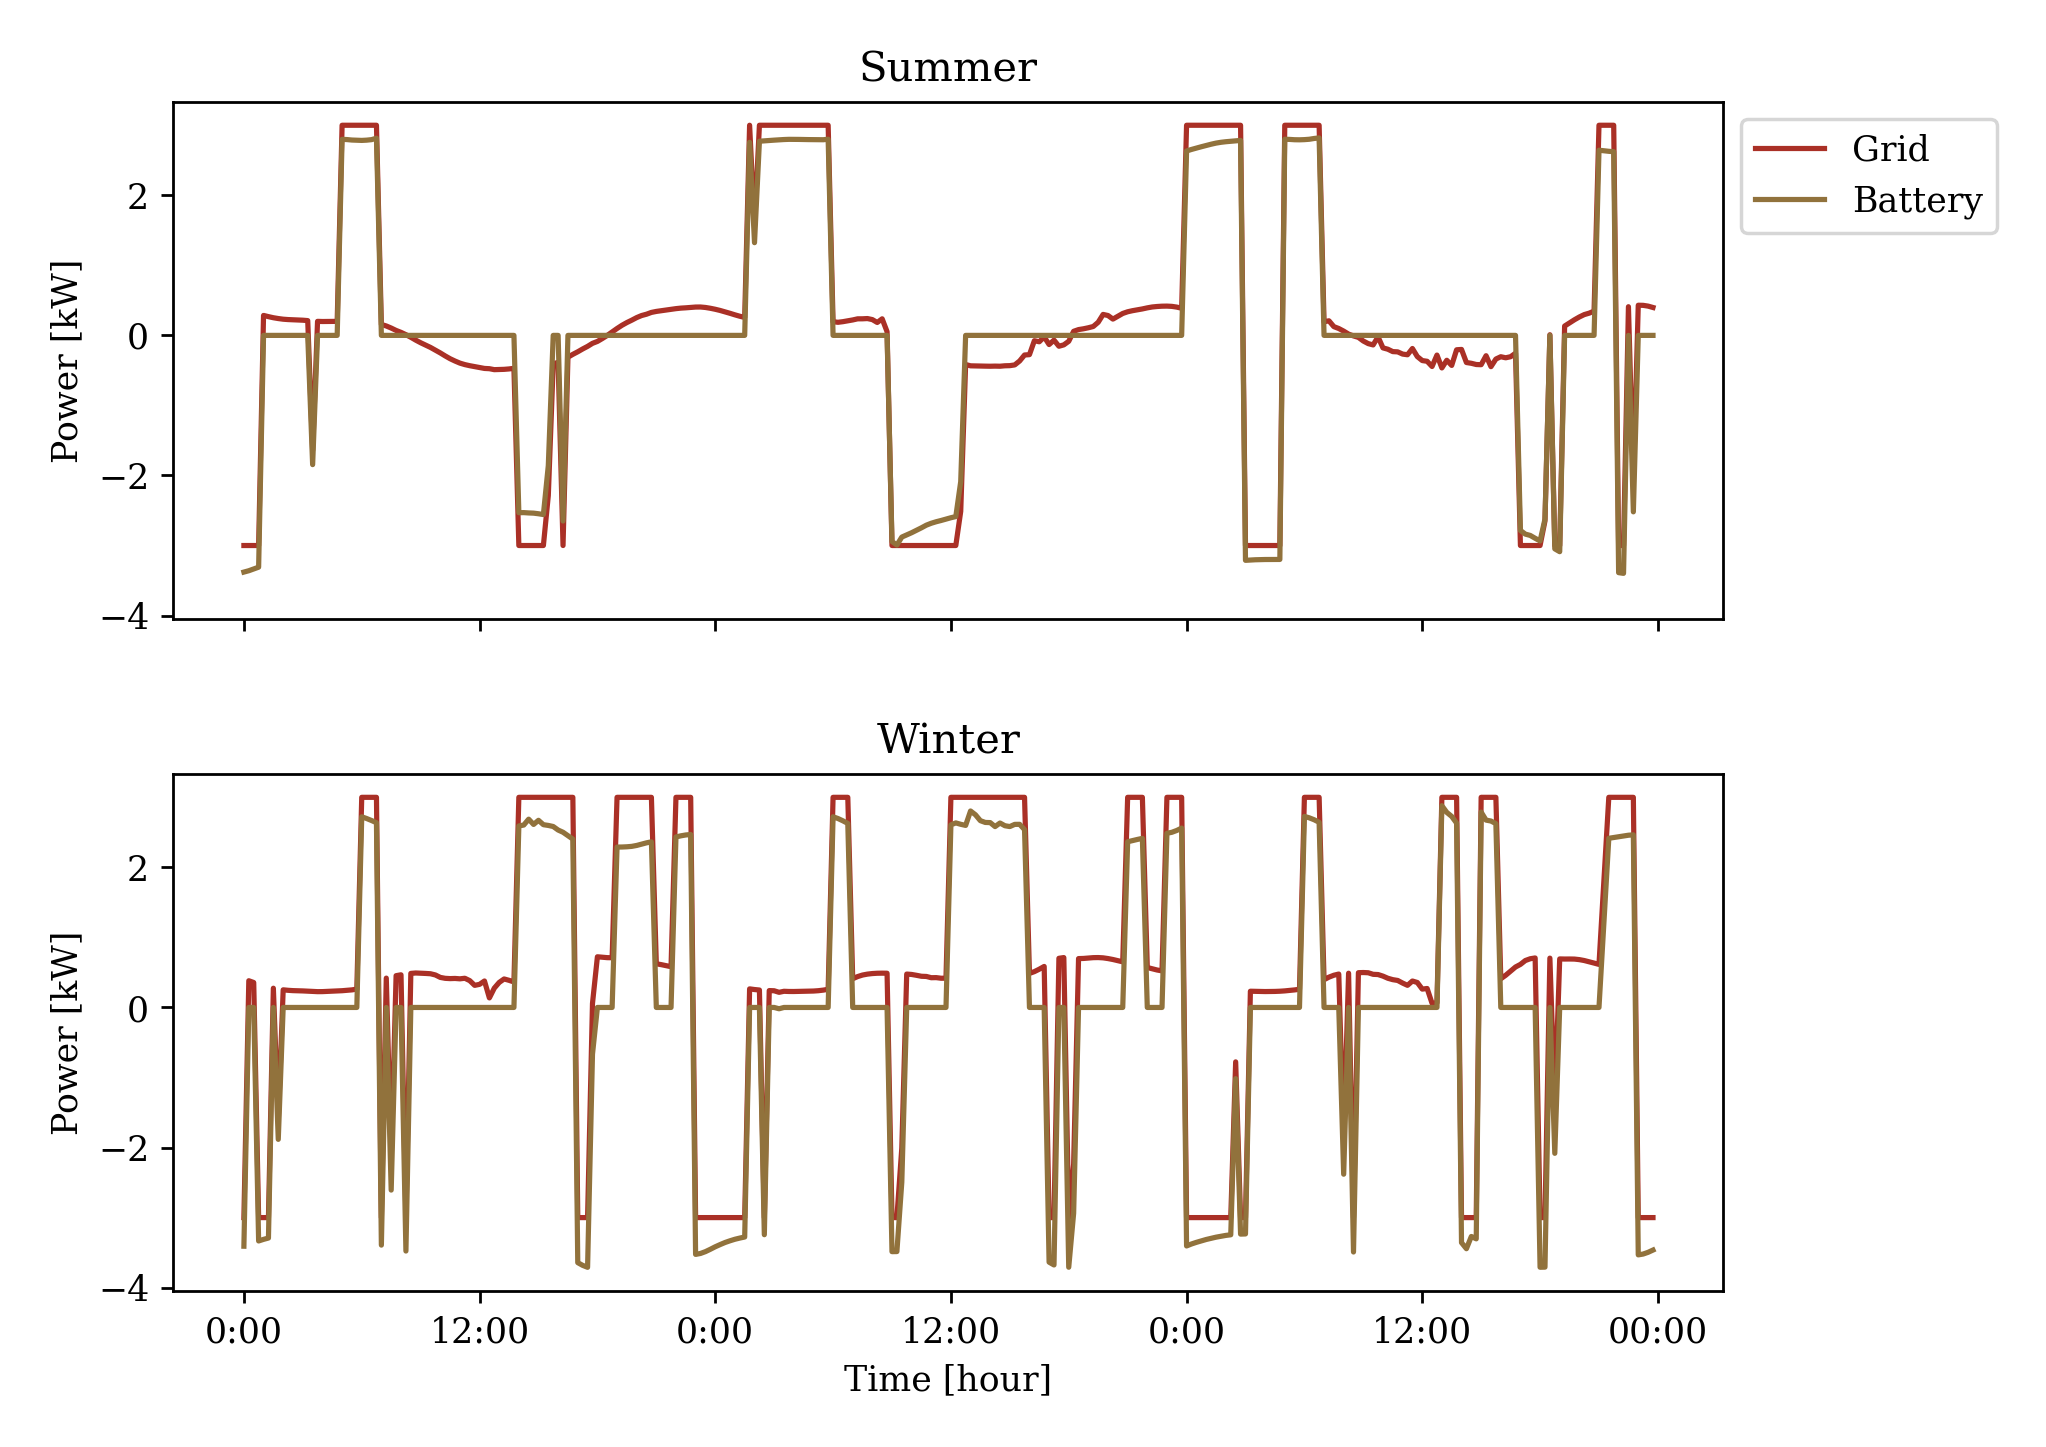
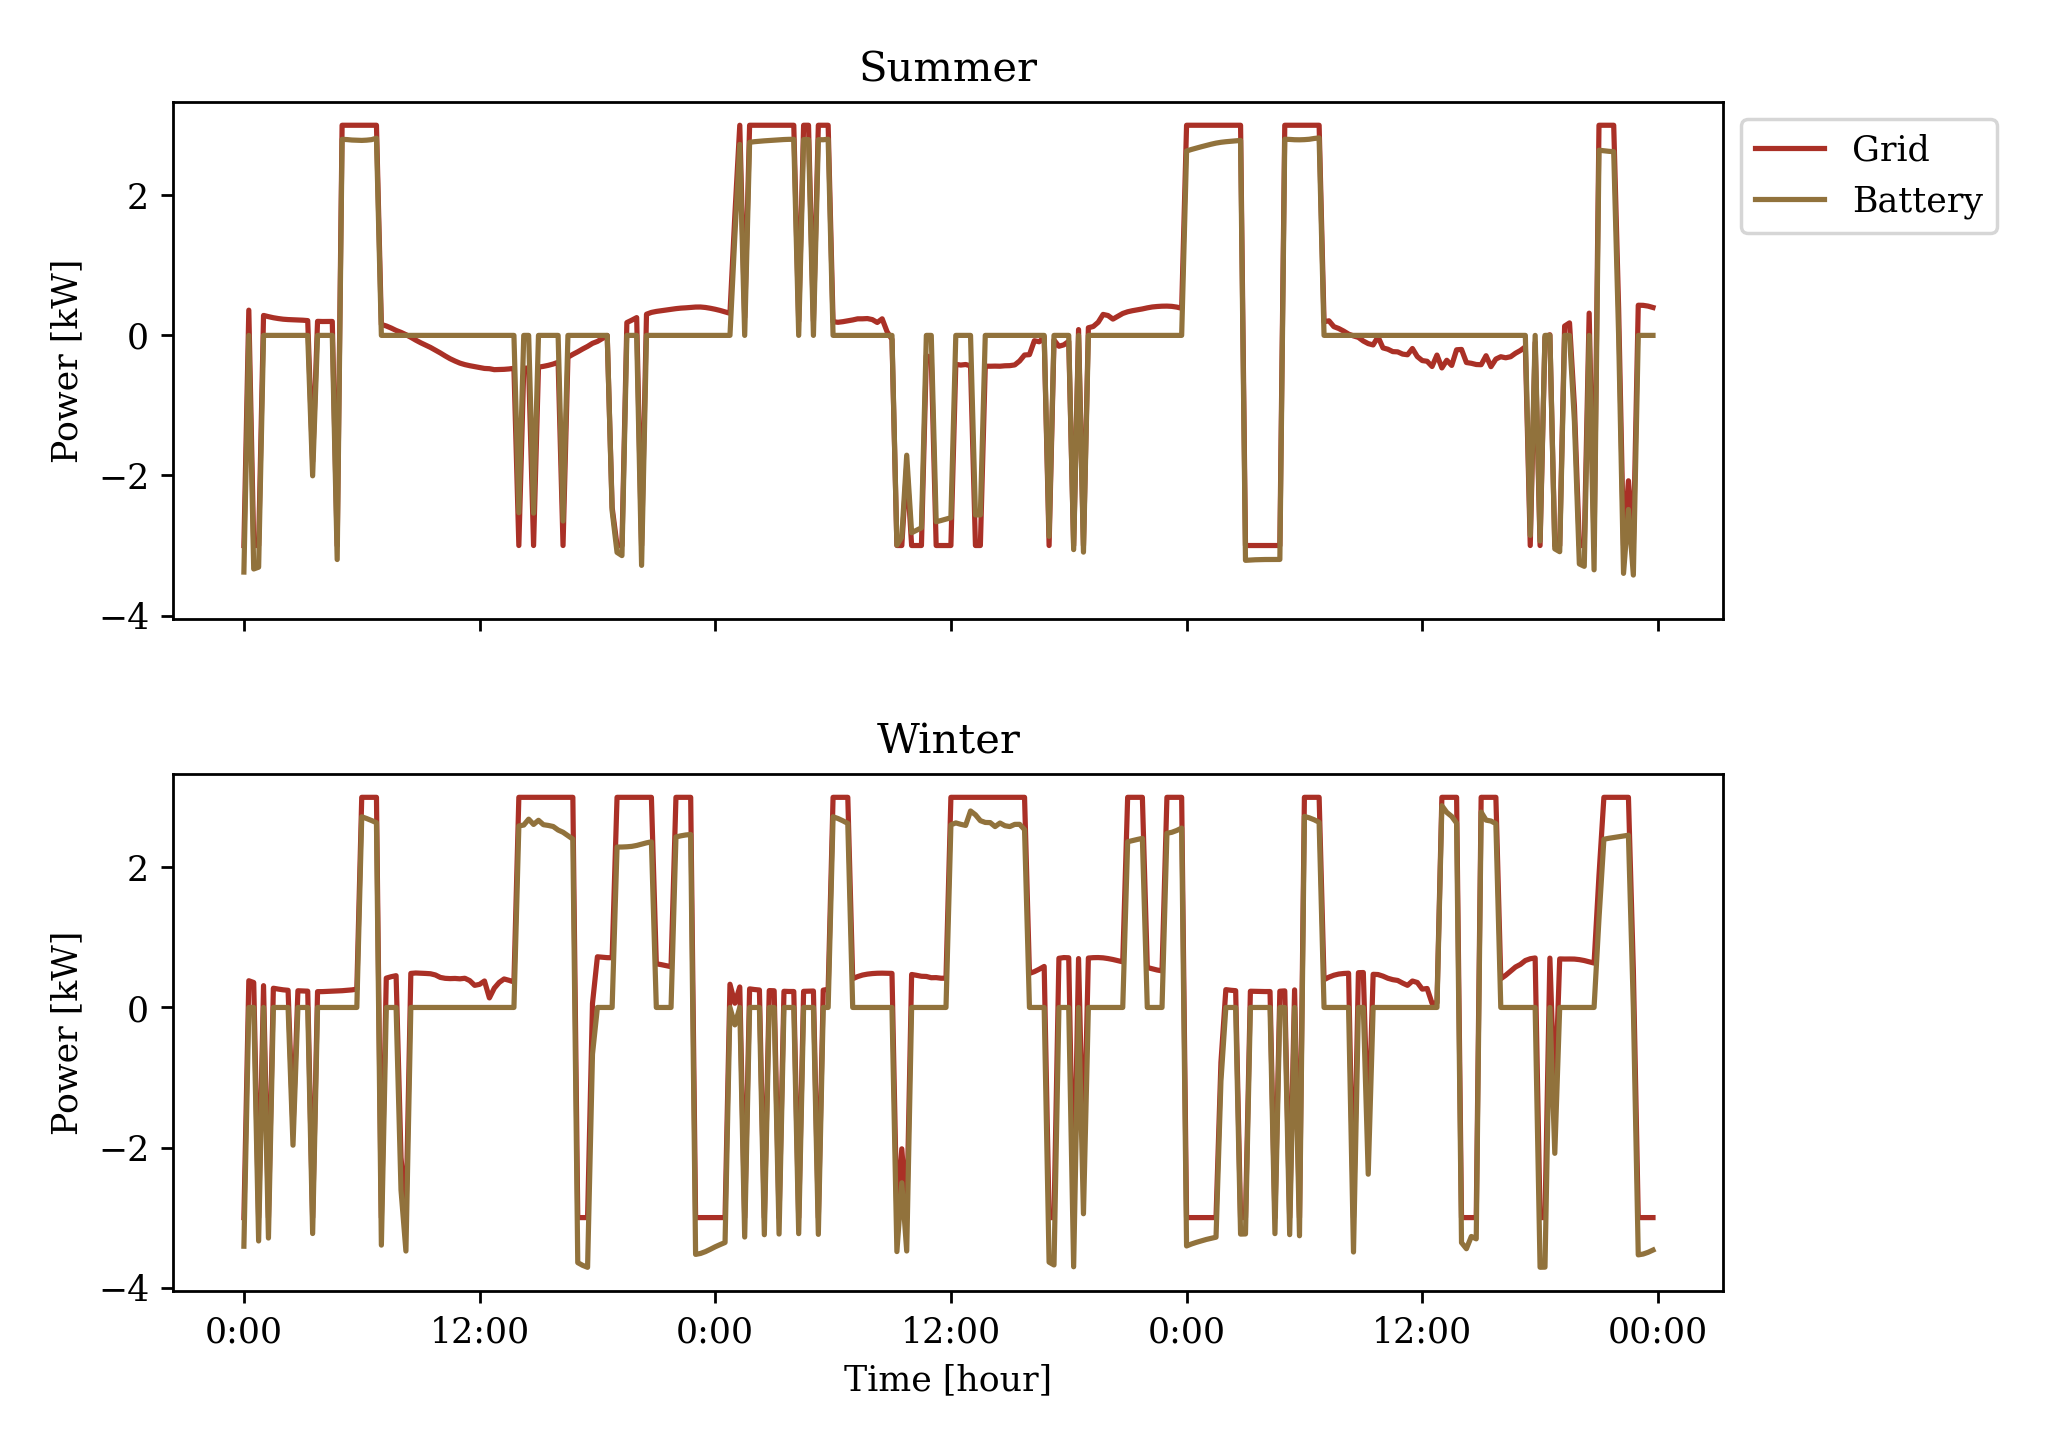
fix: Use the correct SoC values

diff --git a/src/model_function.py b/src/model_function.py
@@ -1,3 +1,4 @@
+import numpy as np
 import pandas as pd
 import gurobipy as gp
 
@@ -42,7 +43,7 @@ def run(group, season, optimisation_target="cost", max_emission=None):
     Step 2: Define variables
     """
     P_grid = model.addVars(data.index, lb=-P_grid_max, ub=P_grid_max)
-    SoC = model.addVars(data.index, lb=SoC_min * C_bat, ub=SoC_max * C_bat)
+    SoC = model.addVars(data.index, lb=SoC_min, ub=SoC_max)
     P_bat_in = model.addVars(data.index, ub=P_bat_max)
     P_bat_out = model.addVars(data.index, ub=P_bat_max)
 
@@ -55,11 +56,11 @@ def run(group, season, optimisation_target="cost", max_emission=None):
                      P_bat_out[t] + P_bat_in[t] for t in range(T))
 
     # Battery SoC dynamics constraint
-    model.addConstrs(SoC[t] == SoC[t - 1] + (P_bat_in[t] * Delta_t * eff_ch)
-                     - (P_bat_out[t] * Delta_t) / eff_dis for t in range(1, T))
+    model.addConstrs(SoC[t] == SoC[t - 1] + (P_bat_in[t] * Delta_t * eff_ch / C_bat)
+                     - (P_bat_out[t] * Delta_t / eff_dis / C_bat) for t in range(1, T))
 
-    model.addConstr(SoC[0] == SoC0 * C_bat + (P_bat_in[0] * Delta_t * eff_ch)
-                    - (P_bat_out[0] * Delta_t) / eff_dis)
+    model.addConstr(SoC[0] == SoC0 + (P_bat_in[0] * Delta_t * eff_ch / C_bat)
+                    - (P_bat_out[0] * Delta_t / eff_dis / C_bat))
 
     # emission cap
     if max_emission is not None:
